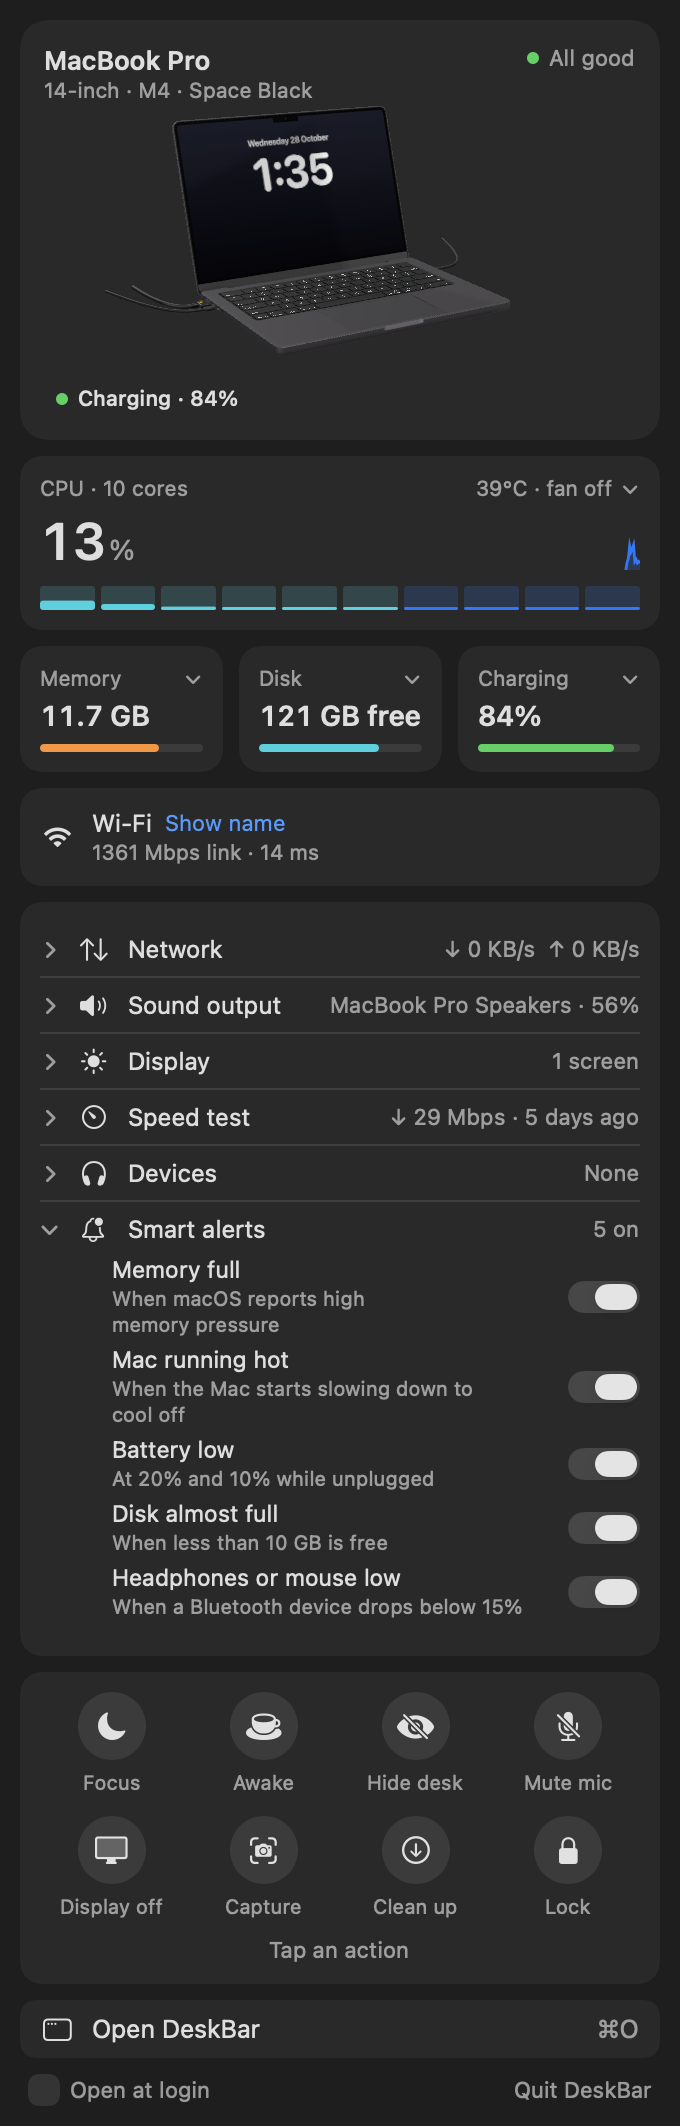
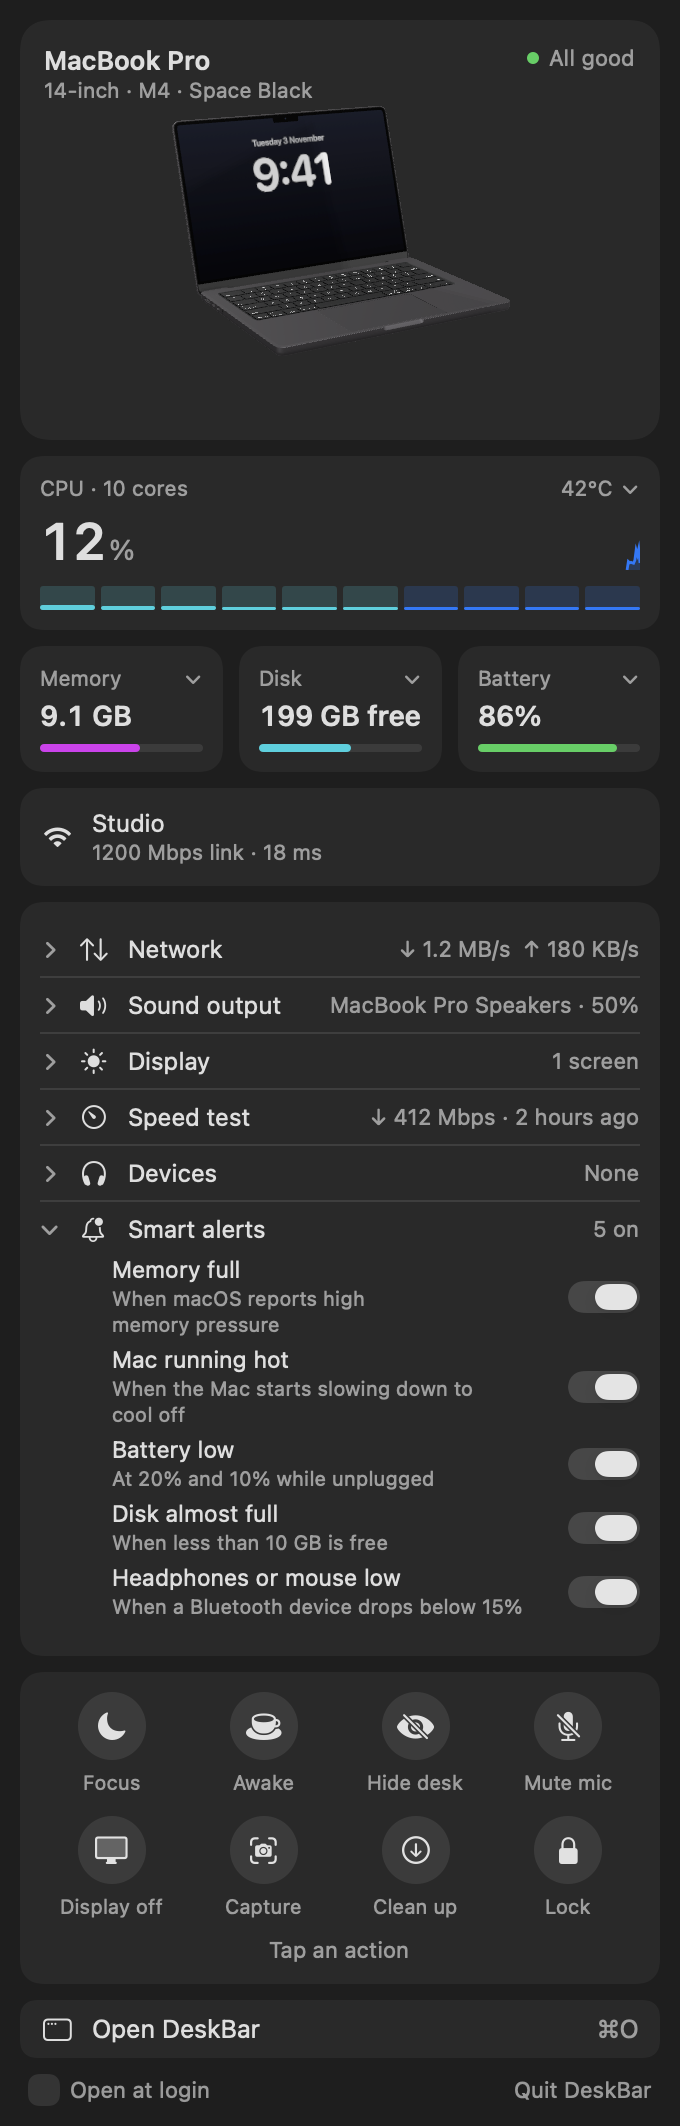
Demo mode: made-up readings and a 9:41 clock
With DESKBAR_DEMO=1 the stats, drives, volume, speed test and clocks
are believable dummy values, so screenshots and the demo video show
nothing from the Mac they were made on. Screenshots regenerated.

diff --git a/Sources/DeskBar/Stats.swift b/Sources/DeskBar/Stats.swift
@@ -165,13 +165,51 @@ final class Stats: NSObject, ObservableObject, CLLocationManagerDelegate {
         if let storage = slow.storage { self.storage = storage }
         if let volumes = slow.volumes { self.volumes = volumes }
         recordHistory()
+        if Demo.on { applyDemo() }
         onRefresh?(self)
+    }
+
+    /// Believable made-up readings for screenshots and the demo video, so nothing from this Mac shows.
+    private func applyDemo() {
+        let gb: UInt64 = 1_000_000_000
+        battery = Battery(percent: 86, charging: false, onPower: false, minutesLeft: 412)
+        wifi = WiFi(on: true, name: "Studio", linkMbps: 1200, signal: -52)
+        pingMs = 18
+        cpuPercent = 12
+        cpuTemp = 42
+        coreUsage = [22, 18, 15, 12, 9, 7, 6, 4, 3, 2]
+        gpuPercent = 3
+        fans = []
+        thermal = .nominal
+        memory = Readers.Memory(used: 98 * gb / 10, total: 16 * gb, pressure: .normal, app: 61 * gb / 10,
+                                wired: 22 * gb / 10, compressed: 8 * gb / 10, cached: 31 * gb / 10)
+        storage = (free: 214_000_000_000, total: 494_000_000_000)
+        volumes = [Readers.Volume(url: URL(fileURLWithPath: "/"), name: "Macintosh HD", free: 214_000_000_000,
+                                  total: 494_000_000_000, purgeable: 18_000_000_000, isInternal: true, ejectable: false)]
+        diskRead = 420_000
+        diskWrite = 96_000
+        download = 1_250_000
+        upload = 180_000
+        power = Readers.Power(systemWatts: 6.8, chargerWatts: nil, chargerName: nil, cycles: 112, health: 96, batteryTemp: 31)
+        topApp = TopAppTracker.TopApp(name: "Safari", percent: 18, app: nil)
+        memoryUsers = [("Safari", 21), ("Xcode", 18), ("Final Cut Pro", 12), ("Music", 4)].enumerated().map { i, user in
+            TopAppTracker.MemoryUser(name: user.0, bytes: UInt64(user.1) * gb / 10, app: nil, pid: pid_t(9000 + i))
+        }
+        cpuUsers = [("Safari", 18.0, 0.4), ("Xcode", 12.0, 0.3), ("Final Cut Pro", 8.0, 0.2)].enumerated().map { i, user in
+            TopAppTracker.CPUUser(name: user.0, percent: user.1, share: user.2, app: nil, pid: pid_t(9000 + i))
+        }
+        ports = []
+        micInUse = false
+        cameraInUse = false
+        camerasInUse = []
+        bluetooth = []
+        bootTime = Date().addingTimeInterval(-3 * 86_400)   // "up 3 days"
     }
 
 
     func refreshNetwork() async {
         async let ping = Self.ping()
-        pingMs = await ping
+        pingMs = Demo.on ? 18 : await ping
         vpn = Readers.vpnActive()
     }
 
@@ -179,7 +217,7 @@ final class Stats: NSObject, ObservableObject, CLLocationManagerDelegate {
     private var lastIPNetwork: String?
 
     func refreshSlow() async {
-        bluetooth = await Readers.bluetooth()
+        bluetooth = Demo.on ? [] : await Readers.bluetooth()
         // Public IP every 10 minutes, or straight away after switching networks.
         if Date().timeIntervalSince(lastIPCheck) > 600 || wifi.name != lastIPNetwork {
             lastIPCheck = Date()

diff --git a/Sources/DeskBar/MacScene.swift b/Sources/DeskBar/MacScene.swift
@@ -692,9 +692,9 @@ final class MacScene: ObservableObject {
         let formatter = DateFormatter()
         formatter.locale = .autoupdatingCurrent
         formatter.setLocalizedDateFormatFromTemplate("jmm")
-        let time = formatter.string(from: Date())
+        let time = formatter.string(from: Demo.now)
             .replacingOccurrences(of: #"\s?[AaPp]\.?[Mm]\.?"#, with: "", options: .regularExpression)
-        return (time, Date().formatted(.dateTime.weekday(.wide).day().month(.wide)))
+        return (time, Demo.now.formatted(.dateTime.weekday(.wide).day().month(.wide)))
     }
 
     // MARK: Lid
@@ -917,9 +917,9 @@ final class MacScene: ObservableObject {
         let formatter = DateFormatter()
         formatter.locale = .autoupdatingCurrent
         formatter.setLocalizedDateFormatFromTemplate("jmm")
-        let time = formatter.string(from: Date())
+        let time = formatter.string(from: Demo.now)
             .replacingOccurrences(of: #"\s?[AaPp]\.?[Mm]\.?"#, with: "", options: .regularExpression)
-        let date = Date().formatted(.dateTime.weekday(.wide).day().month(.wide))
+        let date = Demo.now.formatted(.dateTime.weekday(.wide).day().month(.wide))
         let view = ZStack {
             LinearGradient(colors: [Color(red: 0.10, green: 0.11, blue: 0.16), Color(red: 0.03, green: 0.03, blue: 0.05)],
                            startPoint: .top, endPoint: .bottom)

diff --git a/Sources/DeskBar/Snapshot.swift b/Sources/DeskBar/Snapshot.swift
@@ -20,6 +20,12 @@ enum Snapshot {
             try? await Task.sleep(for: .seconds(24))
             model.display.refresh()
             model.sound.refresh()
+            if Demo.on {
+                // Made-up volume and speed test for shareable screenshots (not saved).
+                model.sound.volume = 0.5
+                model.speedTest.results = [SpeedTest.Result(date: Date().addingTimeInterval(-7200), downMbps: 412, upMbps: 38,
+                                                            pingMs: 14, network: nil)]
+            }
             if CommandLine.arguments.contains("--flat") {
                 // A new install: no 3D model yet (run with DESKBAR_NO_MODEL=1).
                 model.mac.loadIfNeeded()
@@ -57,7 +63,7 @@ enum Snapshot {
                     HistoryStore.shared.record(sample, apps: [("Final Cut Pro", 4 + 70 * spike), ("Safari", 8), ("Xcode", 5), ("Music", 1.5)])
                 }
                 try? await Task.sleep(for: .seconds(2))
-                model.stats.volumes = Readers.volumes()
+                if !Demo.on { model.stats.volumes = Readers.volumes() }
                 let deskStill = MacScene(size: CGSize(width: 880, height: 440))
                 deskStill.playsIntro = false
                 await deskStill.waitUntilLoaded()

diff --git a/Sources/DeskBar/DemoVideo.swift b/Sources/DeskBar/DemoVideo.swift
@@ -476,7 +476,7 @@ private struct DemoFrame: View {
             .background(RoundedRectangle(cornerRadius: 9).fill(Color.white.opacity(panelOpen ? 0.22 : 0)))
             Image(systemName: "wifi").font(.system(size: 24)).frame(width: 64)
             Image(systemName: "battery.75percent").font(.system(size: 27)).frame(width: 72)
-            Text(Date.now.formatted(.dateTime.weekday(.abbreviated).hour().minute()))   // matches the 3D Mac's screen
+            Text(Demo.now.formatted(.dateTime.weekday(.abbreviated).hour().minute()))   // matches the 3D Mac's screen
                 .font(.system(size: 26))
                 .frame(width: 230, alignment: .trailing)
         }

diff --git a/Sources/DeskBar/App.swift b/Sources/DeskBar/App.swift
@@ -43,6 +43,9 @@ final class AppModel: ObservableObject {
 /// `DESKBAR_DEMO=1` for screenshots you can share: a stand-in public IP and a generic Mac name.
 enum Demo {
     static let on = ProcessInfo.processInfo.environment["DESKBAR_DEMO"] != nil
+    /// 9:41, as in Apple's product shots, so no real time or date appears.
+    static let date = Calendar.current.date(from: DateComponents(year: 2026, month: 11, day: 3, hour: 9, minute: 41))!
+    static var now: Date { on ? date : Date() }
 }
 
 /// Opening DeskBar again (Finder, Spotlight, Launchpad) shows its window, as Mac apps do.

diff --git a/Sources/DeskBar/SoundOutput.swift b/Sources/DeskBar/SoundOutput.swift
@@ -29,7 +29,7 @@ final class SoundOutput: ObservableObject {
             return Device(id: id, name: name, icon: Self.icon(transport, name: name))
         }
         if let level = Self.volume(of: current) {
-            volume = level
+            volume = Demo.on ? 0.5 : level
             hasVolume = true
         } else {
             hasVolume = false
